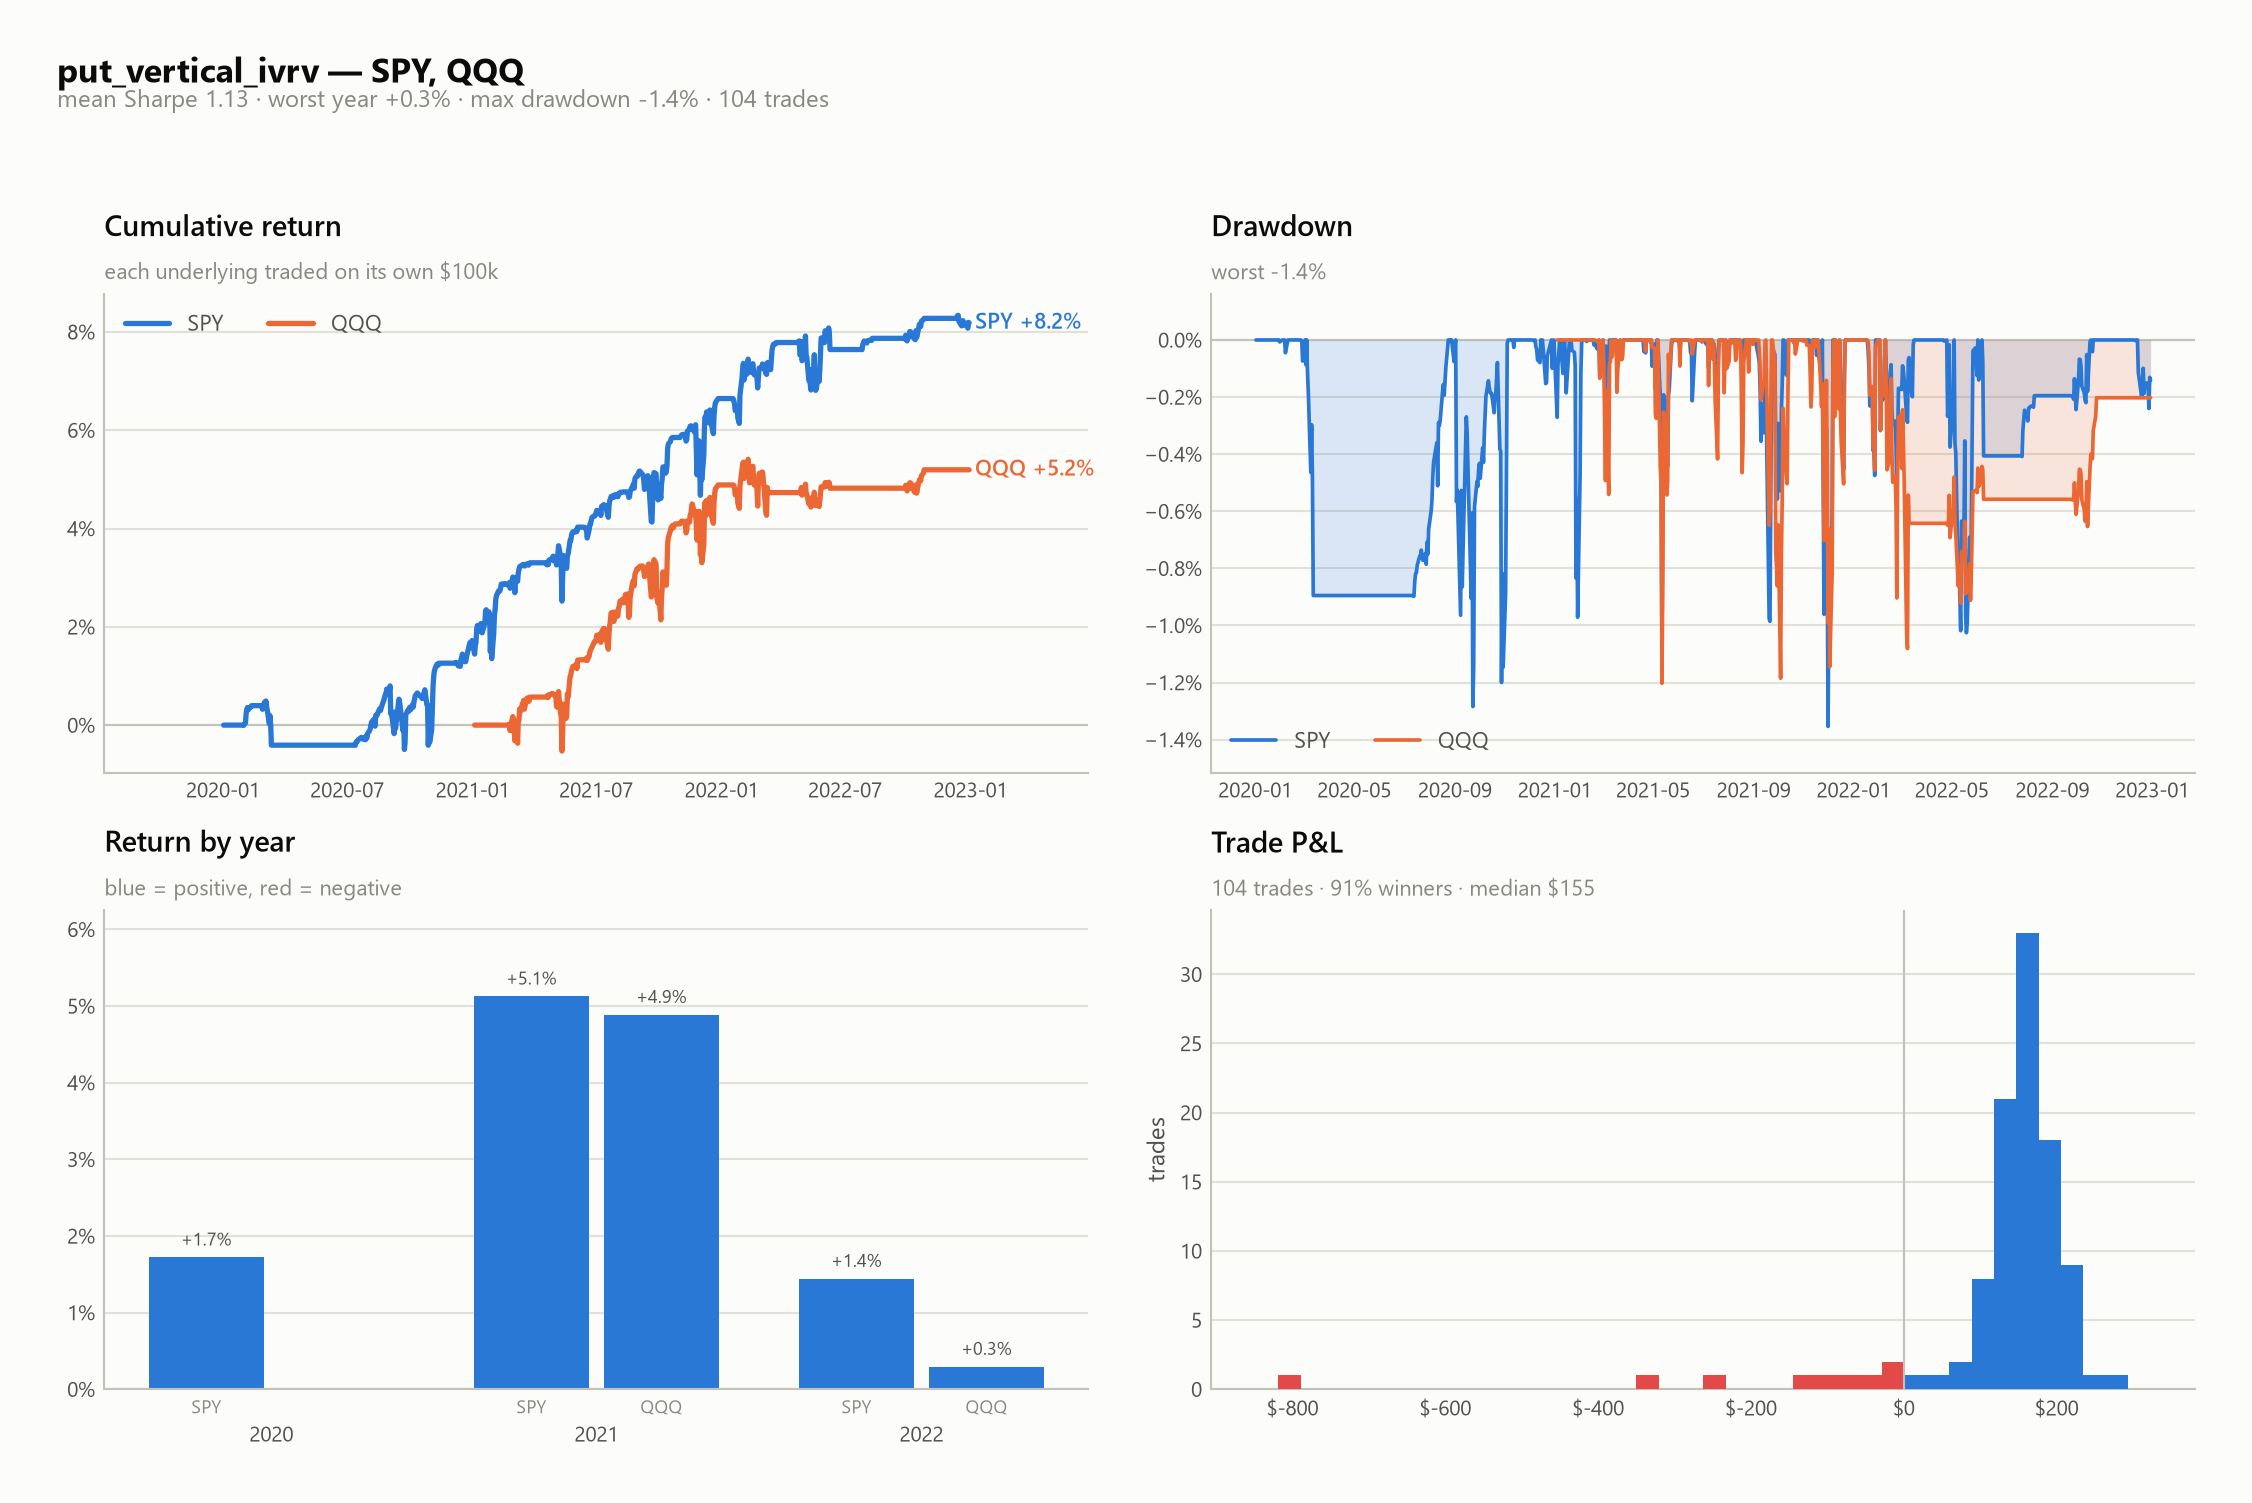
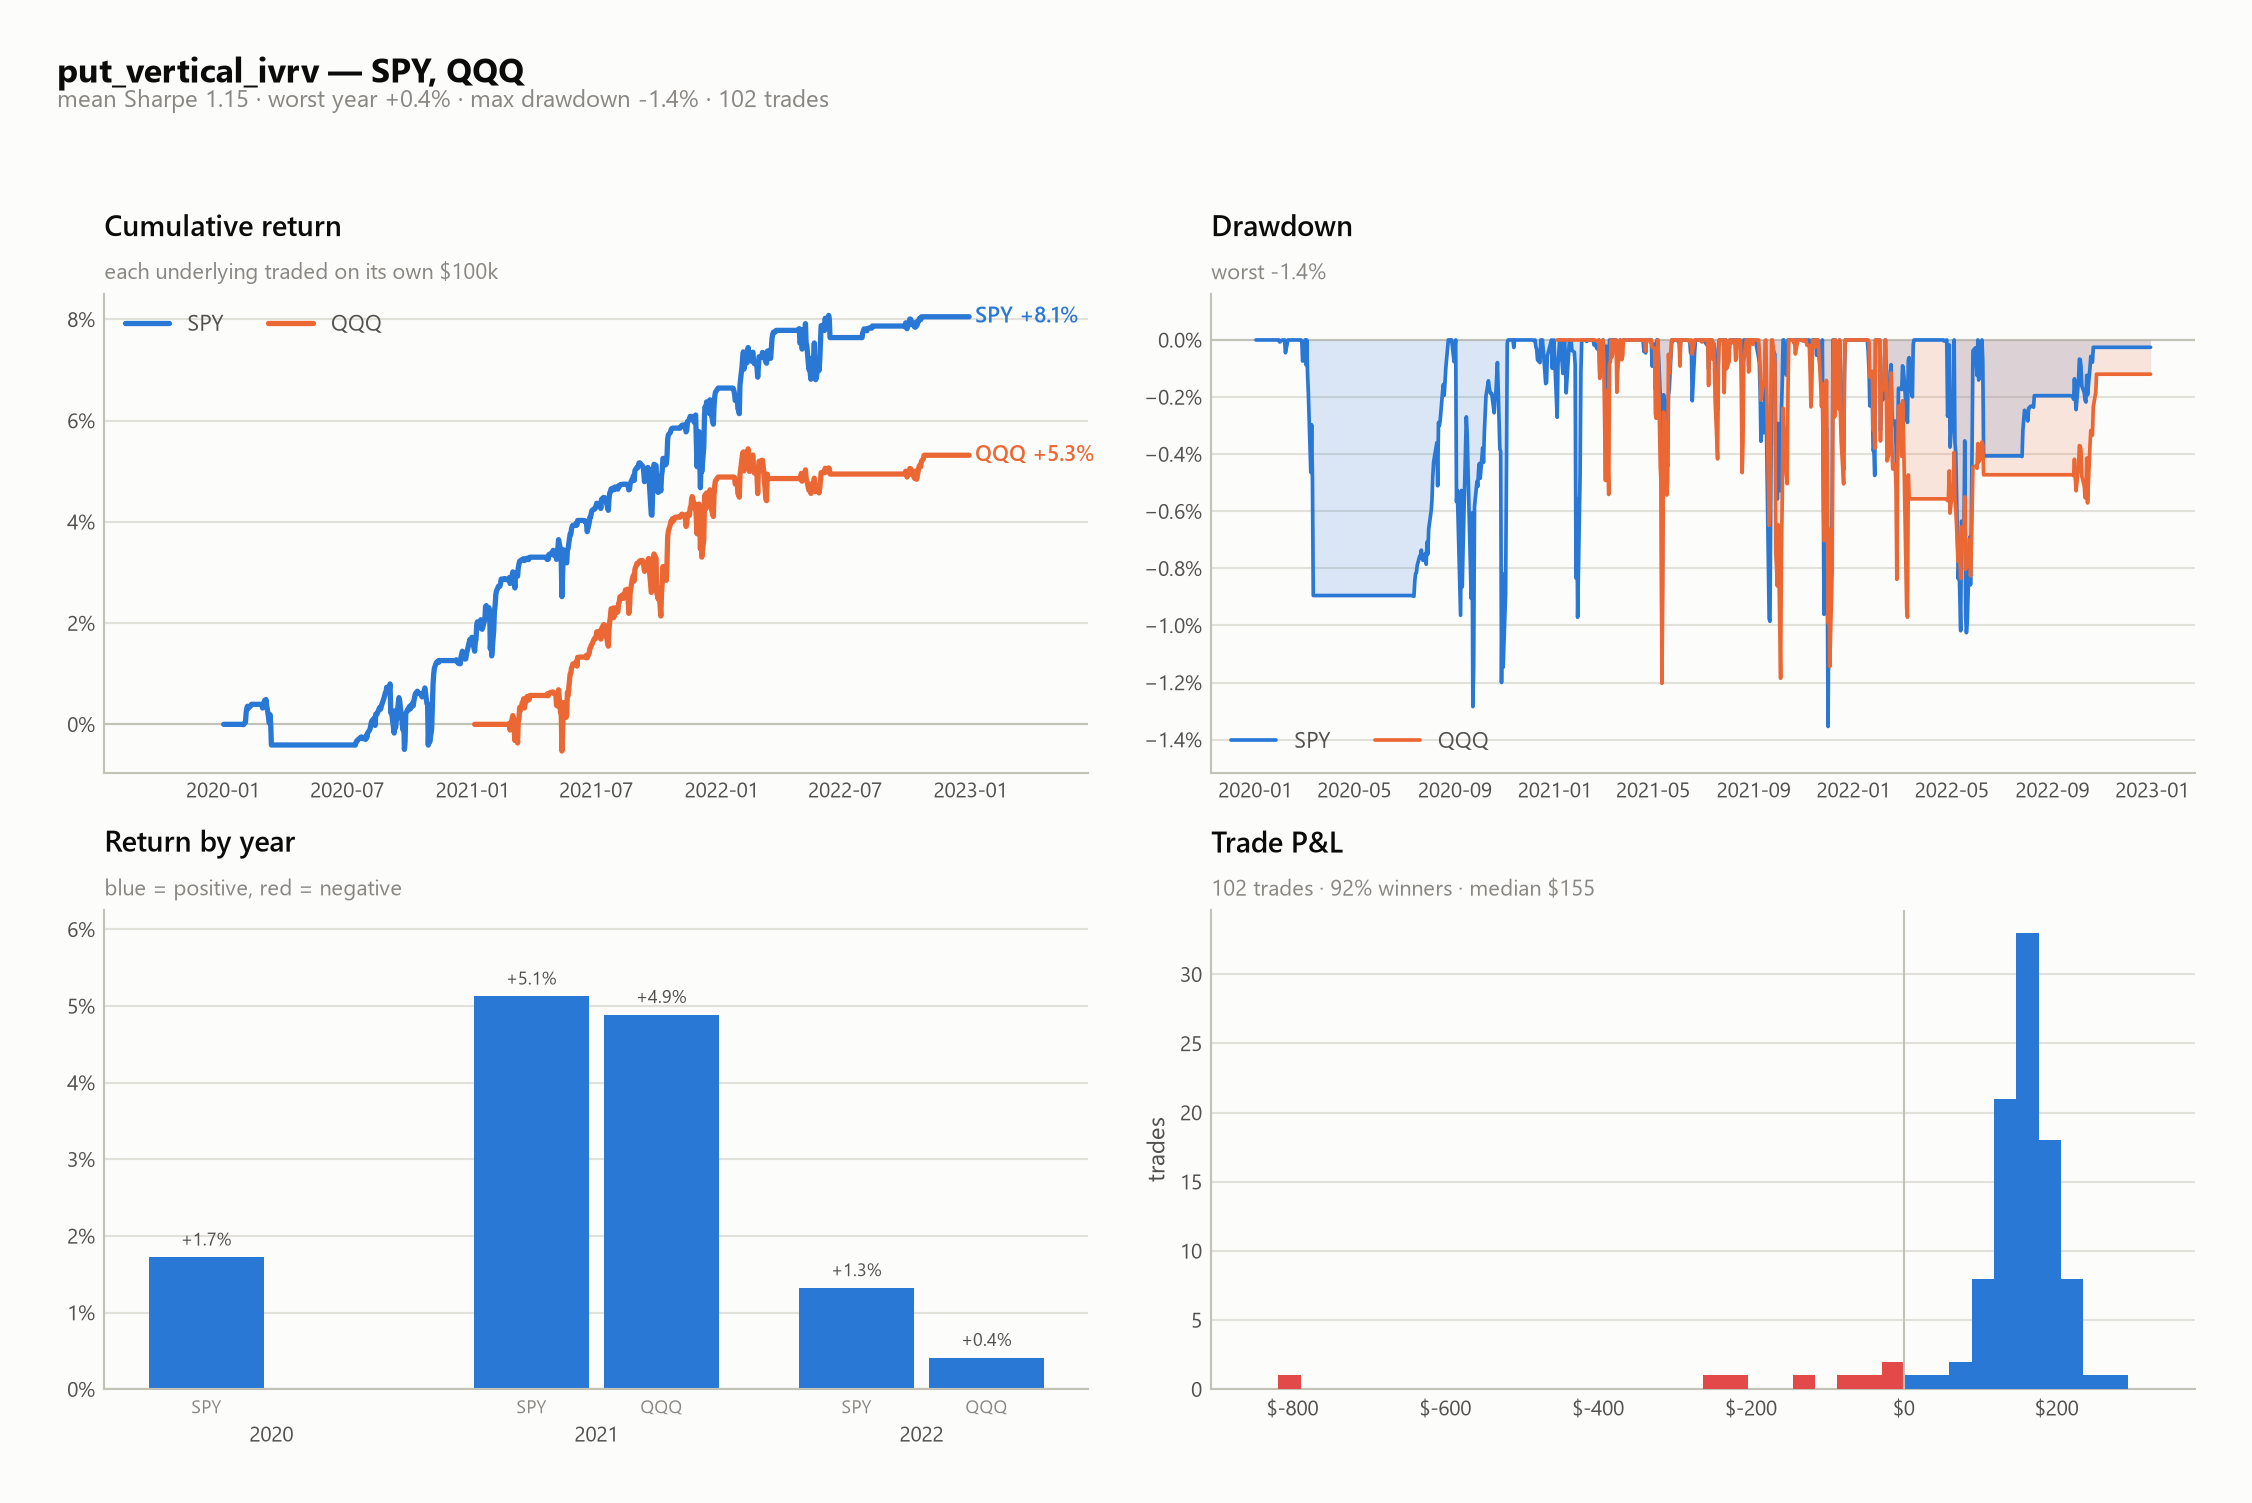
feat(data): add VIX/VXN vol indices and require them to confirm the chain vol gate

diff --git a/synthetix_alpha/strategy/data.py b/synthetix_alpha/strategy/data.py
@@ -10,7 +10,7 @@ import pandas as pd
 from gs_quant.timeseries.technicals import bollinger_bands, macd, relative_strength_index
 
 from synthetix_alpha import config
-from synthetix_alpha.data import kaggle
+from synthetix_alpha.data import kaggle, vix
 
 COLS = ["expiration", "type", "strike", "bid", "ask", "mid", "iv", "delta", "underlying_price"]
 CACHE = config.ROOT / "datasets" / "cache" / "engine"
@@ -28,7 +28,7 @@ def build(underlying: str, source: str = "kaggle") -> tuple[pd.DataFrame, pd.Dat
     for c in ("strike", "bid", "ask", "mid", "iv", "delta", "underlying_price"):
         df[c] = df[c].astype("float32")
     df["type"] = df["type"].astype("category")
-    return df.set_index("date"), features(df, spot)
+    return df.set_index("date"), features(df, spot, underlying)
 
 
 def _dolt_chains(underlying: str) -> pd.DataFrame:
@@ -42,7 +42,7 @@ def _dolt_chains(underlying: str) -> pd.DataFrame:
     return chains.join(spot.rename("underlying_price"), on="date").dropna(subset=["underlying_price"]), spot
 
 
-def features(df: pd.DataFrame, spot: Optional[pd.Series] = None) -> pd.DataFrame:
+def features(df: pd.DataFrame, spot: Optional[pd.Series] = None, underlying: Optional[str] = None) -> pd.DataFrame:
     """Spot-based features on the daily spot series; IV-surface features on chain dates, forward-filled onto it."""
     rows = {}
     for date, d in df.groupby("date", sort=True):
@@ -61,11 +61,28 @@ def features(df: pd.DataFrame, spot: Optional[pd.Series] = None) -> pd.DataFrame
     f["iv_rank"] = f["atm_iv"].rolling(252, min_periods=60).rank(pct=True)
     f["iv_rv_ratio"] = f["atm_iv"] / f["rv20"]
     f["term_slope"] = f["far_iv"] - f["atm_iv"]
-    return f.drop(columns="far_iv").join(technicals(f["spot"]))
+    return f.drop(columns="far_iv").join(technicals(f["spot"])).join(vol_index(underlying, f.index, f["rv20"]))
+
+
+def vol_index(underlying: Optional[str], index, rv20: pd.Series) -> pd.DataFrame:
+    """VIX level and long-history percentile as market regime; the IV/RV ratio only where the index matches."""
+    if underlying is None:
+        return pd.DataFrame(index=index)
+    try:
+        s, matched = vix.for_underlying(underlying)
+    except (FileNotFoundError, KeyError):
+        return pd.DataFrame(index=index)
+    rank = s.rank(pct=True)  # ranked over 1990+ (VIX) / 2001+ (VXN), not a 252-day window
+    aligned = s.reindex(index).ffill()
+    out = {"vix": aligned, "vix_rank": rank.reindex(index).ffill()}
+    if matched:  # index IV over a different name's realised vol is not a ratio worth having
+        out["vix_rv_ratio"] = aligned / rv20
+    return pd.DataFrame(out, index=index)
 
 
 def technicals(spot: pd.Series) -> pd.DataFrame:
     """RSI, Bollinger position and MACD from gs-quant, all trailing."""
+    spot = spot.astype("float64")  # gs-quant writes float64 intermediates into the series
     bands = bollinger_bands(spot, 20, 2)
     low, high = bands.iloc[:, 0], bands.iloc[:, 1]
     return pd.DataFrame({

diff --git a/synthetix_alpha/data/vix.py b/synthetix_alpha/data/vix.py
@@ -1,0 +1,29 @@
+"""CBOE volatility indices from FRED (VIXCLS, VXNCLS): the market's own 30-day IV, with decades of history."""
+
+from __future__ import annotations
+
+from pathlib import Path
+from typing import Optional
+
+import pandas as pd
+
+from synthetix_alpha import config
+
+FILES = {"VIX": "VIXCLS.csv", "VXN": "VXNCLS.csv"}
+INDEX_FOR = {"SPY": "VIX", "QQQ": "VXN"}  # only these two have an index that measures the same asset
+DIR = config.ROOT / "datasets"
+
+
+def load(index: str = "VIX", directory: Optional[Path] = None) -> pd.Series:
+    """Daily close as a decimal (0.18 = 18 vol), indexed by date."""
+    path = Path(directory or DIR) / FILES[index.upper()]
+    df = pd.read_csv(path, parse_dates=["observation_date"])
+    s = pd.to_numeric(df.iloc[:, 1], errors="coerce") / 100.0
+    s.index = df["observation_date"].dt.date
+    return s.dropna().rename(index.upper())
+
+
+def for_underlying(underlying: str, directory: Optional[Path] = None) -> tuple[pd.Series, bool]:
+    """Returns (series, matched). VIX is the market regime for any name, but only a like-for-like IV for SPY/QQQ."""
+    index = INDEX_FOR.get(underlying.upper())
+    return load(index or "VIX", directory), index is not None

diff --git a/synthetix_alpha/strategy/spec.py b/synthetix_alpha/strategy/spec.py
@@ -10,7 +10,7 @@ from typing import Optional, Union
 LEG_TYPES = ("call", "put", "stock")
 SIDES = ("long", "short")
 FEATURES = ("iv_rank", "atm_iv", "rv20", "iv_rv_ratio", "mom20", "sma50_ratio", "sma200_ratio", "skew25",
-            "term_slope", "rsi", "bollinger_pos", "macd")
+            "term_slope", "rsi", "bollinger_pos", "macd", "vix", "vix_rank", "vix_rv_ratio")
 SIZING = ("max_loss", "margin", "notional")
 
 

diff --git a/docs/research.md b/docs/research.md
@@ -38,6 +38,23 @@ volatility is rich relative to realised earns Sharpe ≈ 1.0. The monotonicity a
 this is the variance risk premium being harvested conditionally, not a fitted artifact — an independent review of seven
 options papers ranked the same conditional-VRP family first.
 
+## Generation 4: an independent check on the vol gate
+
+Adding CBOE's own indices (VIX from 1990, VXN from 2001, FRED daily closes) served two purposes.
+
+First, **validation**: the chain-derived ATM IV correlates **0.984** with VIX on SPY and **0.985** with VXN on QQQ over
+the backtest window. It sits about 4 vol points lower, exactly as expected — VIX prices the whole strip including the
+OTM put skew, while the chain measure is the at-the-money point. The surface construction is sound.
+
+Second, **an independent replication of the central finding**. Sweeping a VIX-based gate reproduces the same monotonic
+curve on its own scale — score −0.59 at `VIX/RV ≥ 1.0` rising to +1.08 at 1.6 — using a public, market-standard measure
+that never touches the chain code. Two different instruments, same conclusion.
+
+Requiring *both* gates to agree then improved the deployed rule: score 1.089 → **1.112**, fragility median 0.94 → 0.97,
+and out-of-sample on the independent Dolt data 0.177 → **0.202** (Sharpe 0.65 → 0.67). One result cut the other way and
+is worth recording: filtering out high-VIX percentiles ("skip the crisis") *hurt* badly, 1.089 → 0.757. Panic is when
+the premium is richest, and the strategy wants those days.
+
 ## Generation 3: robustness became the objective
 
 Verification of the generation-2 leader exposed a knife-edge: shifting its DTE window ±10 days collapsed the score
@@ -63,13 +80,20 @@ the DTE window, turning its DTE−10 score from unscoreable to +0.86.
 
 Put credit **vertical** on SPY and QQQ — single expiry, so one standard 2-leg `mleg` order:
 
-- **Entry** every 3 days, max 5 concurrent, only when `IV/RV ≥ 1.27`.
+- **Entry** every 3 days, max 5 concurrent, only when **both** vol measures agree the premium is rich: the chain's own
+  `IV/RV ≥ 1.27` *and* the market's index (VIX for SPY, VXN for QQQ) `VIX/RV ≥ 1.4`.
 - **Structure** — sell the 20-delta put, buy the 10-delta put, same expiry, ~65 DTE (40–90 window).
 - **Exits** — take profit at 65% of the credit, stop at 2× credit, close at 21 DTE.
 - **Sizing** — 3% of equity at risk per position against payoff-grid max loss; skip entries whose credit is under
   5% of max loss.
 
-In-sample: mean Sharpe 1.13 (SPY 1.16, QQQ 1.11), max drawdown 1.4%, positive every year including 2022, 104 trades.
+In-sample: mean Sharpe 1.15, max drawdown 1.4%, positive every year including 2022, 102 trades. P&L is well spread —
+the top 5 of 65 SPY trades are only 15% of total profit.
+
+**The double gate is index-only.** `vix_rv_ratio` compares an index's implied vol to that same index's realised vol, so
+it exists for SPY and QQQ and nothing else — dividing VIX by a single stock's realised vol is not a meaningful ratio,
+and the loader deliberately refuses to compute it. For single names use `strategies/put_vertical_ivrv_chainonly.json`,
+the same rule with the chain gate alone.
 
 Alternates kept for regime coverage: `put_diagonal_ivrv_robust.json` (189 trades, adds NVDA) and
 `index_condor_trend.json` (two-sided, index-only — it fails on single names).
@@ -160,16 +184,16 @@ does not exist yet. Until it does, the index pair (SPY/QQQ) is the only validate
 ## Progress log
 
 [`progress.md`](progress.md) is the improvement path: every candidate that beat all its predecessors, with a UTC
-timestamp, return, Sharpe, drawdown and trade count. Eight improvements over about fourteen hours took the search from
+timestamp, return, Sharpe, drawdown and trade count. Nine improvements over about sixteen hours took the search from
 a hand-written baseline that lost money to the deployed rule.
 
-| | baseline | gen 0 | gen 2 | gen 3 (deployed) |
+| | baseline | gen 0 | gen 2 | gen 4 (deployed) |
 |---|---|---|---|---|
-| score | −1.18 | +0.75 | +0.98 | **+1.09** |
+| score | −1.18 | +0.75 | +0.98 | **+1.11** |
 | return | −0.9% | +3.5% | +2.5% | **+6.7%** |
-| mean Sharpe | −0.13 | 0.85 | 1.01 | **1.14** |
+| mean Sharpe | −0.13 | 0.85 | 1.01 | **1.15** |
 | max drawdown | −8.3% | −2.7% | −1.1% | **−1.4%** |
-| trades | 168 | 49 | 59 | **104** |
+| trades | 168 | 49 | 59 | **102** |
 
 Log a new candidate with `python -m synthetix_alpha.strategy.progress <spec.json> --gen N --note "..."`. Non-improving
 runs still go into the append-only `progress.jsonl`; only improvements are rendered into the table.

diff --git a/docs/progress.md b/docs/progress.md
@@ -18,5 +18,6 @@ scoring -9. Return is the mean across the underlyings traded, each on its own $1
 | 2026-08-29 07:52 | 2 | `idx_put_spread_ivrv_rich_v2_g1m0_g2m1` | SPY+QQQ | +2.5% | 1.01 | 0.99 | -1.1% | +0.2% | 59 | **+0.975** | gen 2 winner; knife-edge DTE window (+/-10 -> 0.28/0.07) |
 | 2026-08-29 13:11 | 3 | `robust_diag_v1` | SPY+QQQ+NVDA | +7.0% | 1.13 | 1.01 | -2.3% | +0.6% | 189 | **+1.012** | gen 3: robustness-tuned diagonal, 189 trades |
 | 2026-08-29 13:12 | 3 | `vertical_ivrv_v0` | SPY+QQQ | +6.7% | 1.14 | 1.11 | -1.4% | +0.3% | 104 | **+1.089** | gen 3 winner: re-centred to the 55-70 DTE plateau; DEPLOYED |
+| 2026-08-29 15:20 | 4 | `put_vertical_ivrv` | SPY+QQQ | +6.7% | 1.15 | 1.14 | -1.4% | +0.4% | 102 | **+1.112** | gen 4: require VIX/VXN to confirm the chain-derived vol gate (index-only) |
 
-8 improvements across 12 logged evaluations; score -1.180 -> +1.089, mean Sharpe -0.13 -> 1.14.
+9 improvements across 13 logged evaluations; score -1.180 -> +1.112, mean Sharpe -0.13 -> 1.15.

diff --git a/README.md b/README.md
@@ -71,8 +71,9 @@ provenance and hashes in `skills-lock.json`.
 ## Deployed strategy
 
 `strategies/put_vertical_ivrv.json` — put credit vertical on SPY/QQQ (sell 20-delta, buy 10-delta, ~65 DTE), entered
-only when implied vol is rich versus realised (`IV/RV >= 1.27`). In-sample mean Sharpe 1.13, max DD 1.4%, 104 trades;
-Sharpe 0.65 out-of-sample on independent 2019-2026 vendor data and 0.49 on AAPL 2016-2023. See [docs/research.md](docs/research.md) for the search, the verification, and the
+entered only when both the option chain and the matching CBOE index (VIX/VXN) agree implied vol is rich versus
+realised. In-sample mean Sharpe 1.15, max DD 1.4%, 102 trades; Sharpe 0.67 out-of-sample on independent 2019-2026
+vendor data. See [docs/research.md](docs/research.md) for the search, the verification, and the
 deployment caveats.
 
 ```sh
